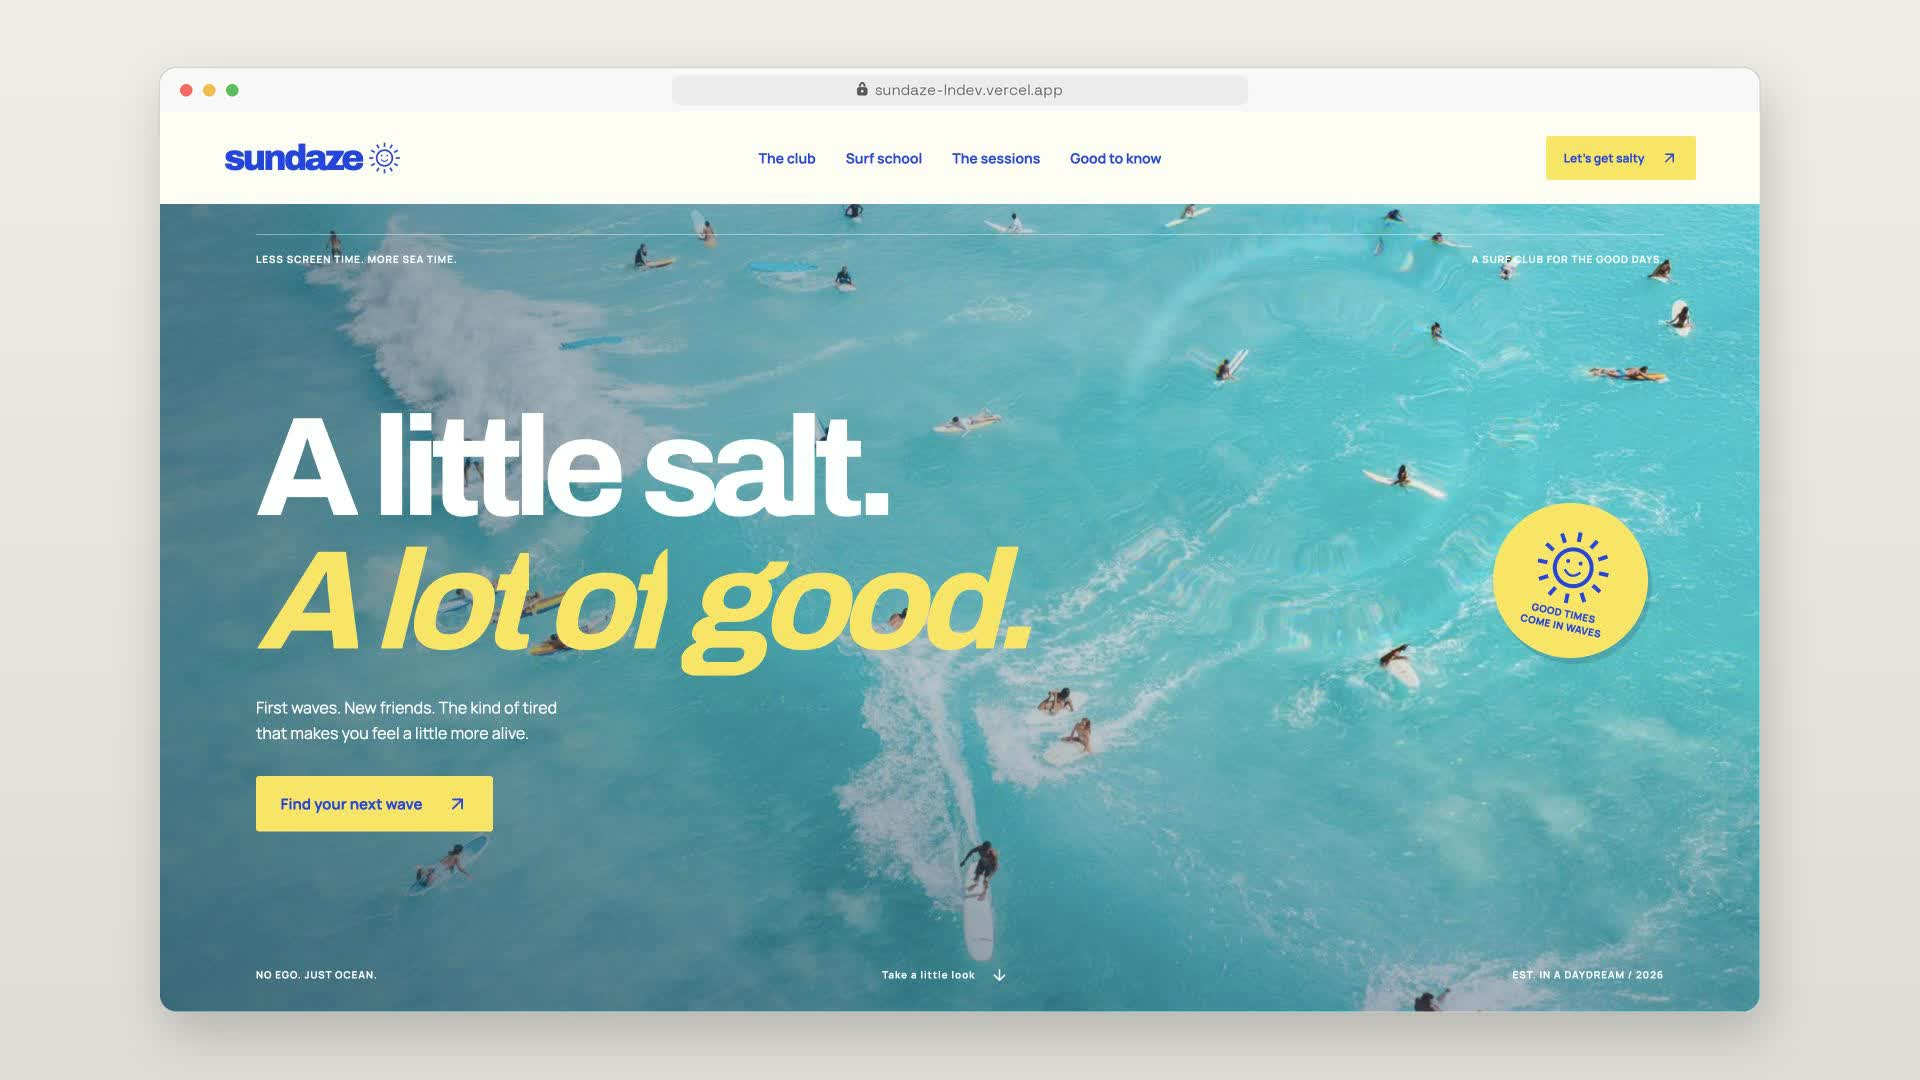
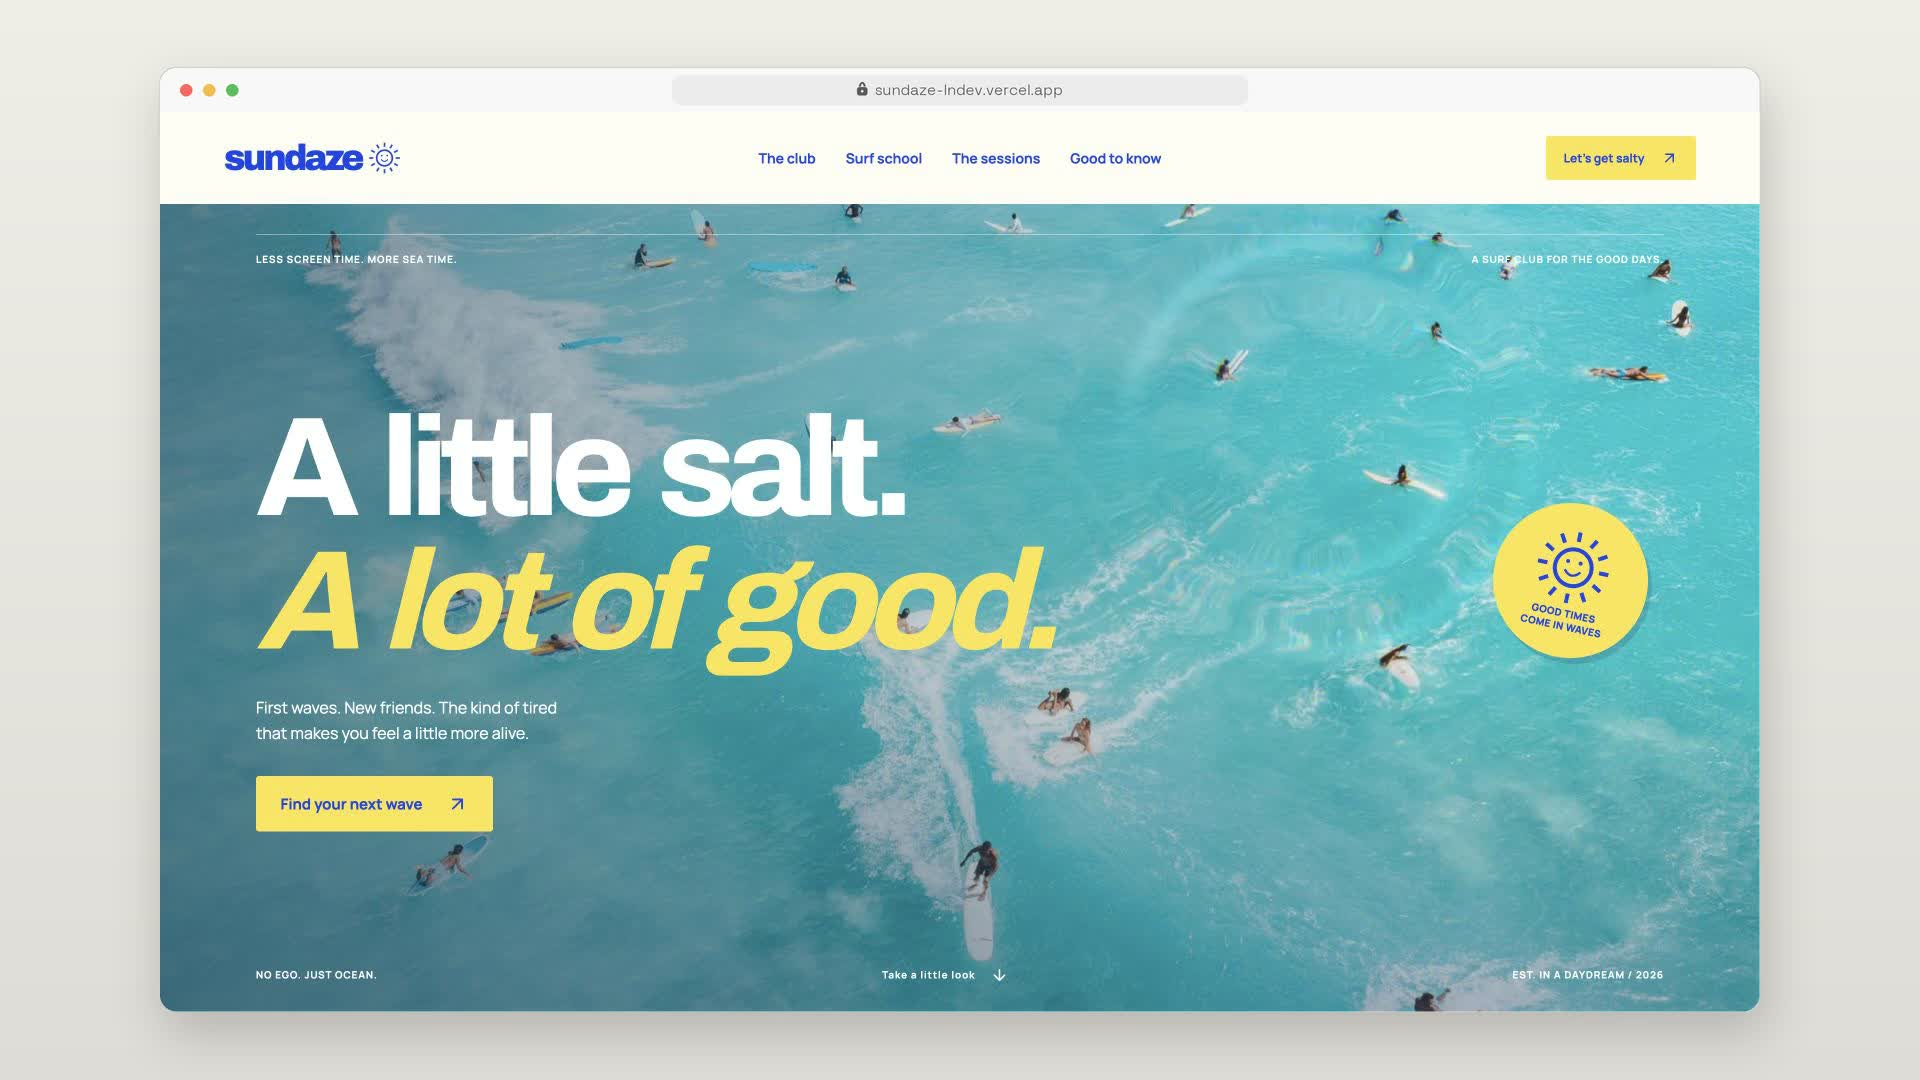
fix: correct Sundaze typography and ripple transparency

Changed region(s): [[0.1875, 0.3667, 0.5625, 0.6417]]

diff --git a/landing-pages/sundaze/app/globals.css b/landing-pages/sundaze/app/globals.css
@@ -1784,6 +1784,7 @@ footer a:hover {
 }
 .timing-ocean {
   position: relative;
+  z-index: 3;
   height: 150px;
   margin: 0 18px;
   pointer-events: none;
@@ -2286,11 +2287,15 @@ h2.motion-title span {
 }
 .motion-title .word-mask {
   display: inline-block;
-  overflow: hidden;
+  /* Let italic overhangs, accents and descenders paint outside the line box. */
+  overflow: visible;
   vertical-align: top;
-  padding: 0 0.06em 0.13em 0;
-  margin: 0 0.1em -0.13em 0;
-  line-height: 1.1;
+  padding: 0;
+  margin: 0 0.22em 0 0;
+  line-height: 1.12;
+}
+.motion-title .word-mask:last-child {
+  margin-right: 0;
 }
 .motion-title .word-body {
   display: inline-block;
@@ -2324,7 +2329,7 @@ h2.motion-title .line-outline .word-body {
 }
 @media (prefers-reduced-motion: no-preference) {
   .motion-title .word-body {
-    transform: translate3d(0, 115%, 0) rotate(4deg);
+    transform: translate3d(0, 0.65em, 0) rotate(2deg);
     opacity: 0;
     transition:
       transform 0.9s cubic-bezier(0.16, 1, 0.3, 1),
@@ -2359,7 +2364,7 @@ h2.motion-title .line-outline .word-body {
 }
 @media (max-width: 700px) {
   .motion-title .word-mask {
-    margin-right: 0.08em;
+    margin-right: 0.18em;
   }
   .hero h1.motion-title {
     font-size: clamp(54px, 12.6vw, 75px);

diff --git a/www/index.html b/www/index.html
@@ -112,7 +112,7 @@
                     "name": "Sundaze",
                     "url": "https://sundaze-lndev.vercel.app",
                     "description": "A sunny surf club with ocean photography, click ripples and animated typography. Read a wave, explore the kit, test your timing and collect stamps in an interactive surf school.",
-                    "image": "https://lp.lndev.me/showcase/sundaze.jpg",
+                    "image": "https://lp.lndev.me/showcase/sundaze.jpg?v=2",
                     "license": "https://github.com/ln-dev7/landing-pages/tree/master/landing-pages/sundaze#third-party-effects"
                   }
                 },
@@ -385,7 +385,7 @@
             inert
           >
             <img
-              src="showcase/sundaze.jpg"
+              src="showcase/sundaze.jpg?v=2"
               width="1600"
               height="900"
               alt="Sundaze — A playful surf club"
@@ -654,7 +654,7 @@ pnpm dev</code></pre>
       </div>
     </footer>
     <script src="/analytics.js" defer></script>
-    <script src="projects.js?v=12" defer></script>
+    <script src="projects.js?v=13" defer></script>
     <script src="script.js?v=10" defer></script>
   </body>
 </html>

diff --git a/landing-pages/sundaze/components/motion-title.tsx b/landing-pages/sundaze/components/motion-title.tsx
@@ -14,9 +14,17 @@ export function MotionTitle({
   useEffect(() => {
     const el = ref.current;
     if (!el) return;
-    const io = new IntersectionObserver(([e]) => setEntered(e.isIntersecting), {
-      threshold: 0.15,
-    });
+    const io = new IntersectionObserver(
+      ([e]) => {
+        if (e.isIntersecting) {
+          setEntered(true);
+          io.disconnect();
+        }
+      },
+      {
+        threshold: 0.15,
+      },
+    );
     io.observe(el);
     return () => io.disconnect();
   }, []);
@@ -38,7 +46,11 @@ export function MotionTitle({
             <span className="word-mask" key={j}>
               <span
                 className="word-body"
-                style={{ "--word-delay": `${index++ * 65}ms` } as CSSProperties}
+                style={
+                  {
+                    "--word-delay": `${Math.min(index++ * 65, 280)}ms`,
+                  } as CSSProperties
+                }
               >
                 {word}
               </span>{" "}

diff --git a/landing-pages/sundaze/components/canvasui/Ripple.tsx b/landing-pages/sundaze/components/canvasui/Ripple.tsx
@@ -279,9 +279,13 @@ void main () {
   } else {
     col = page(pUv + offs).rgb;
   }
-  col += glint;
-  col *= 1.0 - shade;
-  outColor = vec4(col, 1.0);
+  // HTML content can be transparent (the timing game's decorative layer).
+  // Preserve its alpha instead of turning every empty pixel opaque black.
+  float contentAlpha = page(pUv + offs).a;
+  float highlightAlpha = clamp(glint * 0.9 + shade * 0.5, 0.0, 0.85);
+  float alpha = contentAlpha + highlightAlpha * (1.0 - contentAlpha);
+  col = col * (1.0 - shade) + vec3(glint) * alpha;
+  outColor = vec4(min(col, vec3(alpha)), alpha);
 }`;
 
 export function supportsHtmlInCanvas(): boolean {

diff --git a/www/projects.js b/www/projects.js
@@ -30,7 +30,7 @@ window.PROJECTS = [
       "Interactive surf school, a timing game and Canvas UI water ripples",
     colors: ["#293FE0", "#FFE65B", "#FFFCF3", "#153164"],
     stack: ["Next.js 16", "Tailwind CSS 4", "shadcn/ui", "Canvas UI"],
-    image: "showcase/sundaze.jpg",
+    image: "showcase/sundaze.jpg?v=2",
     url: "https://sundaze-lndev.vercel.app",
   },
   {
